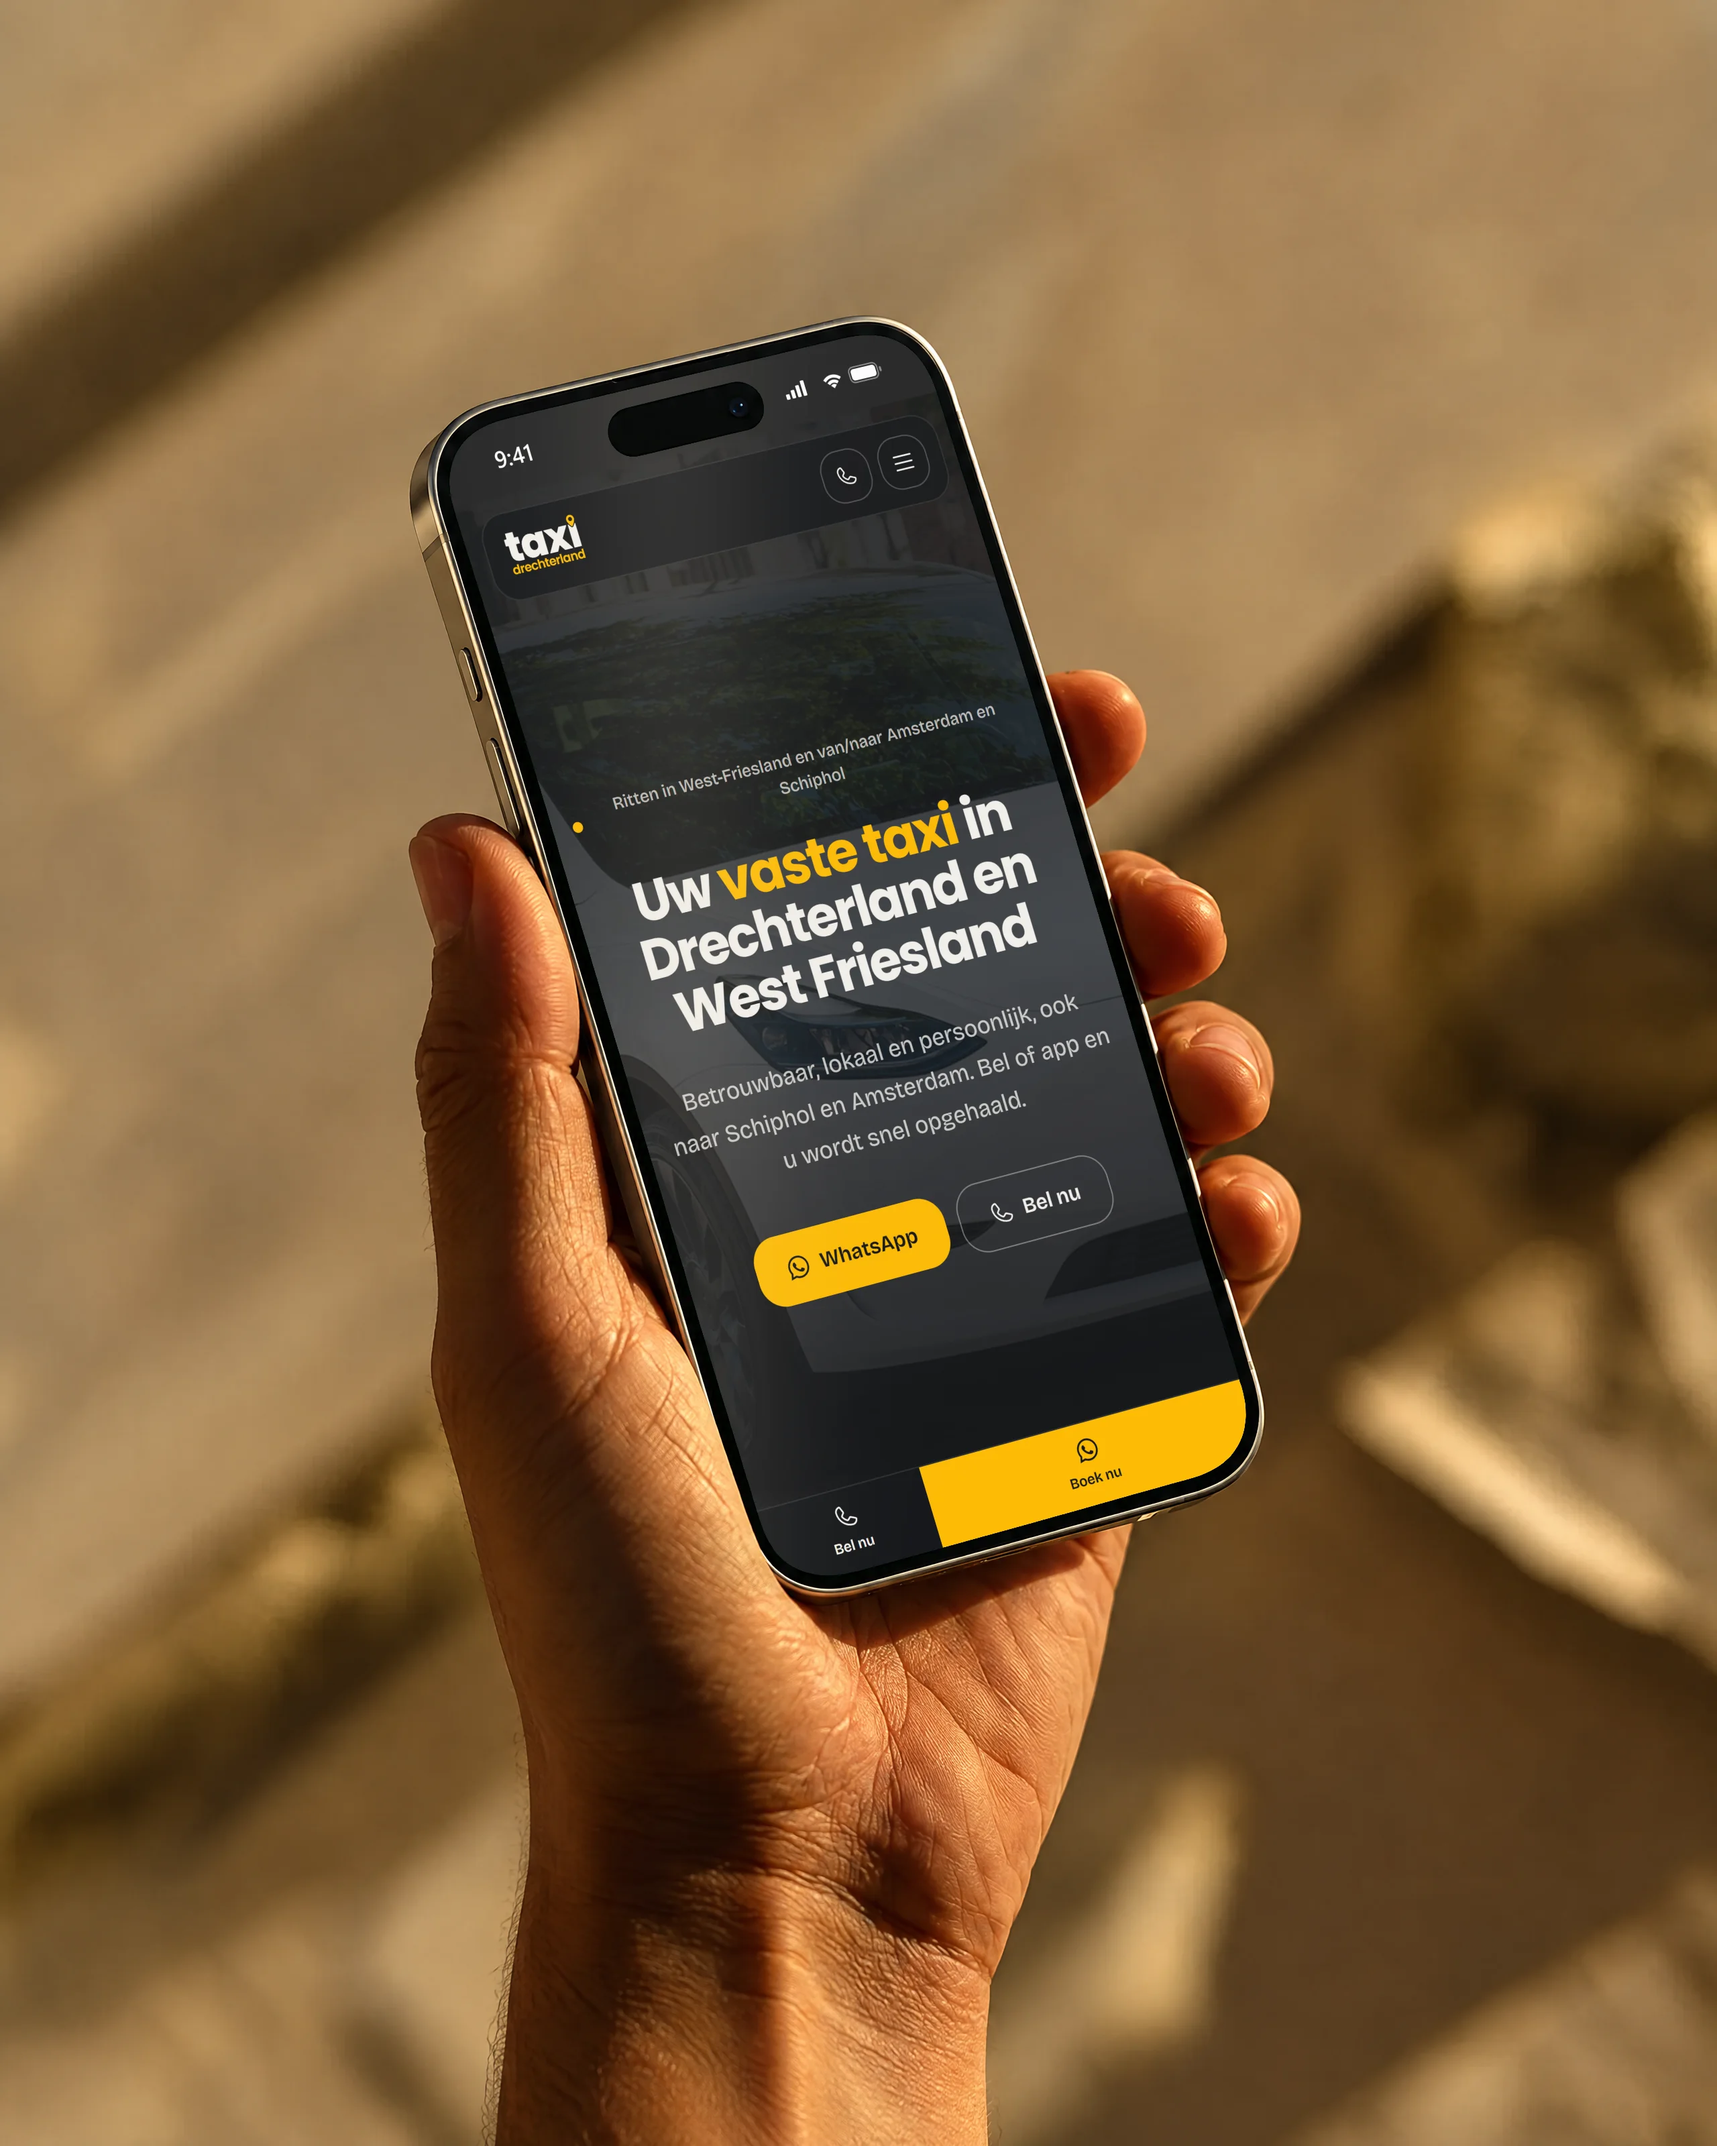
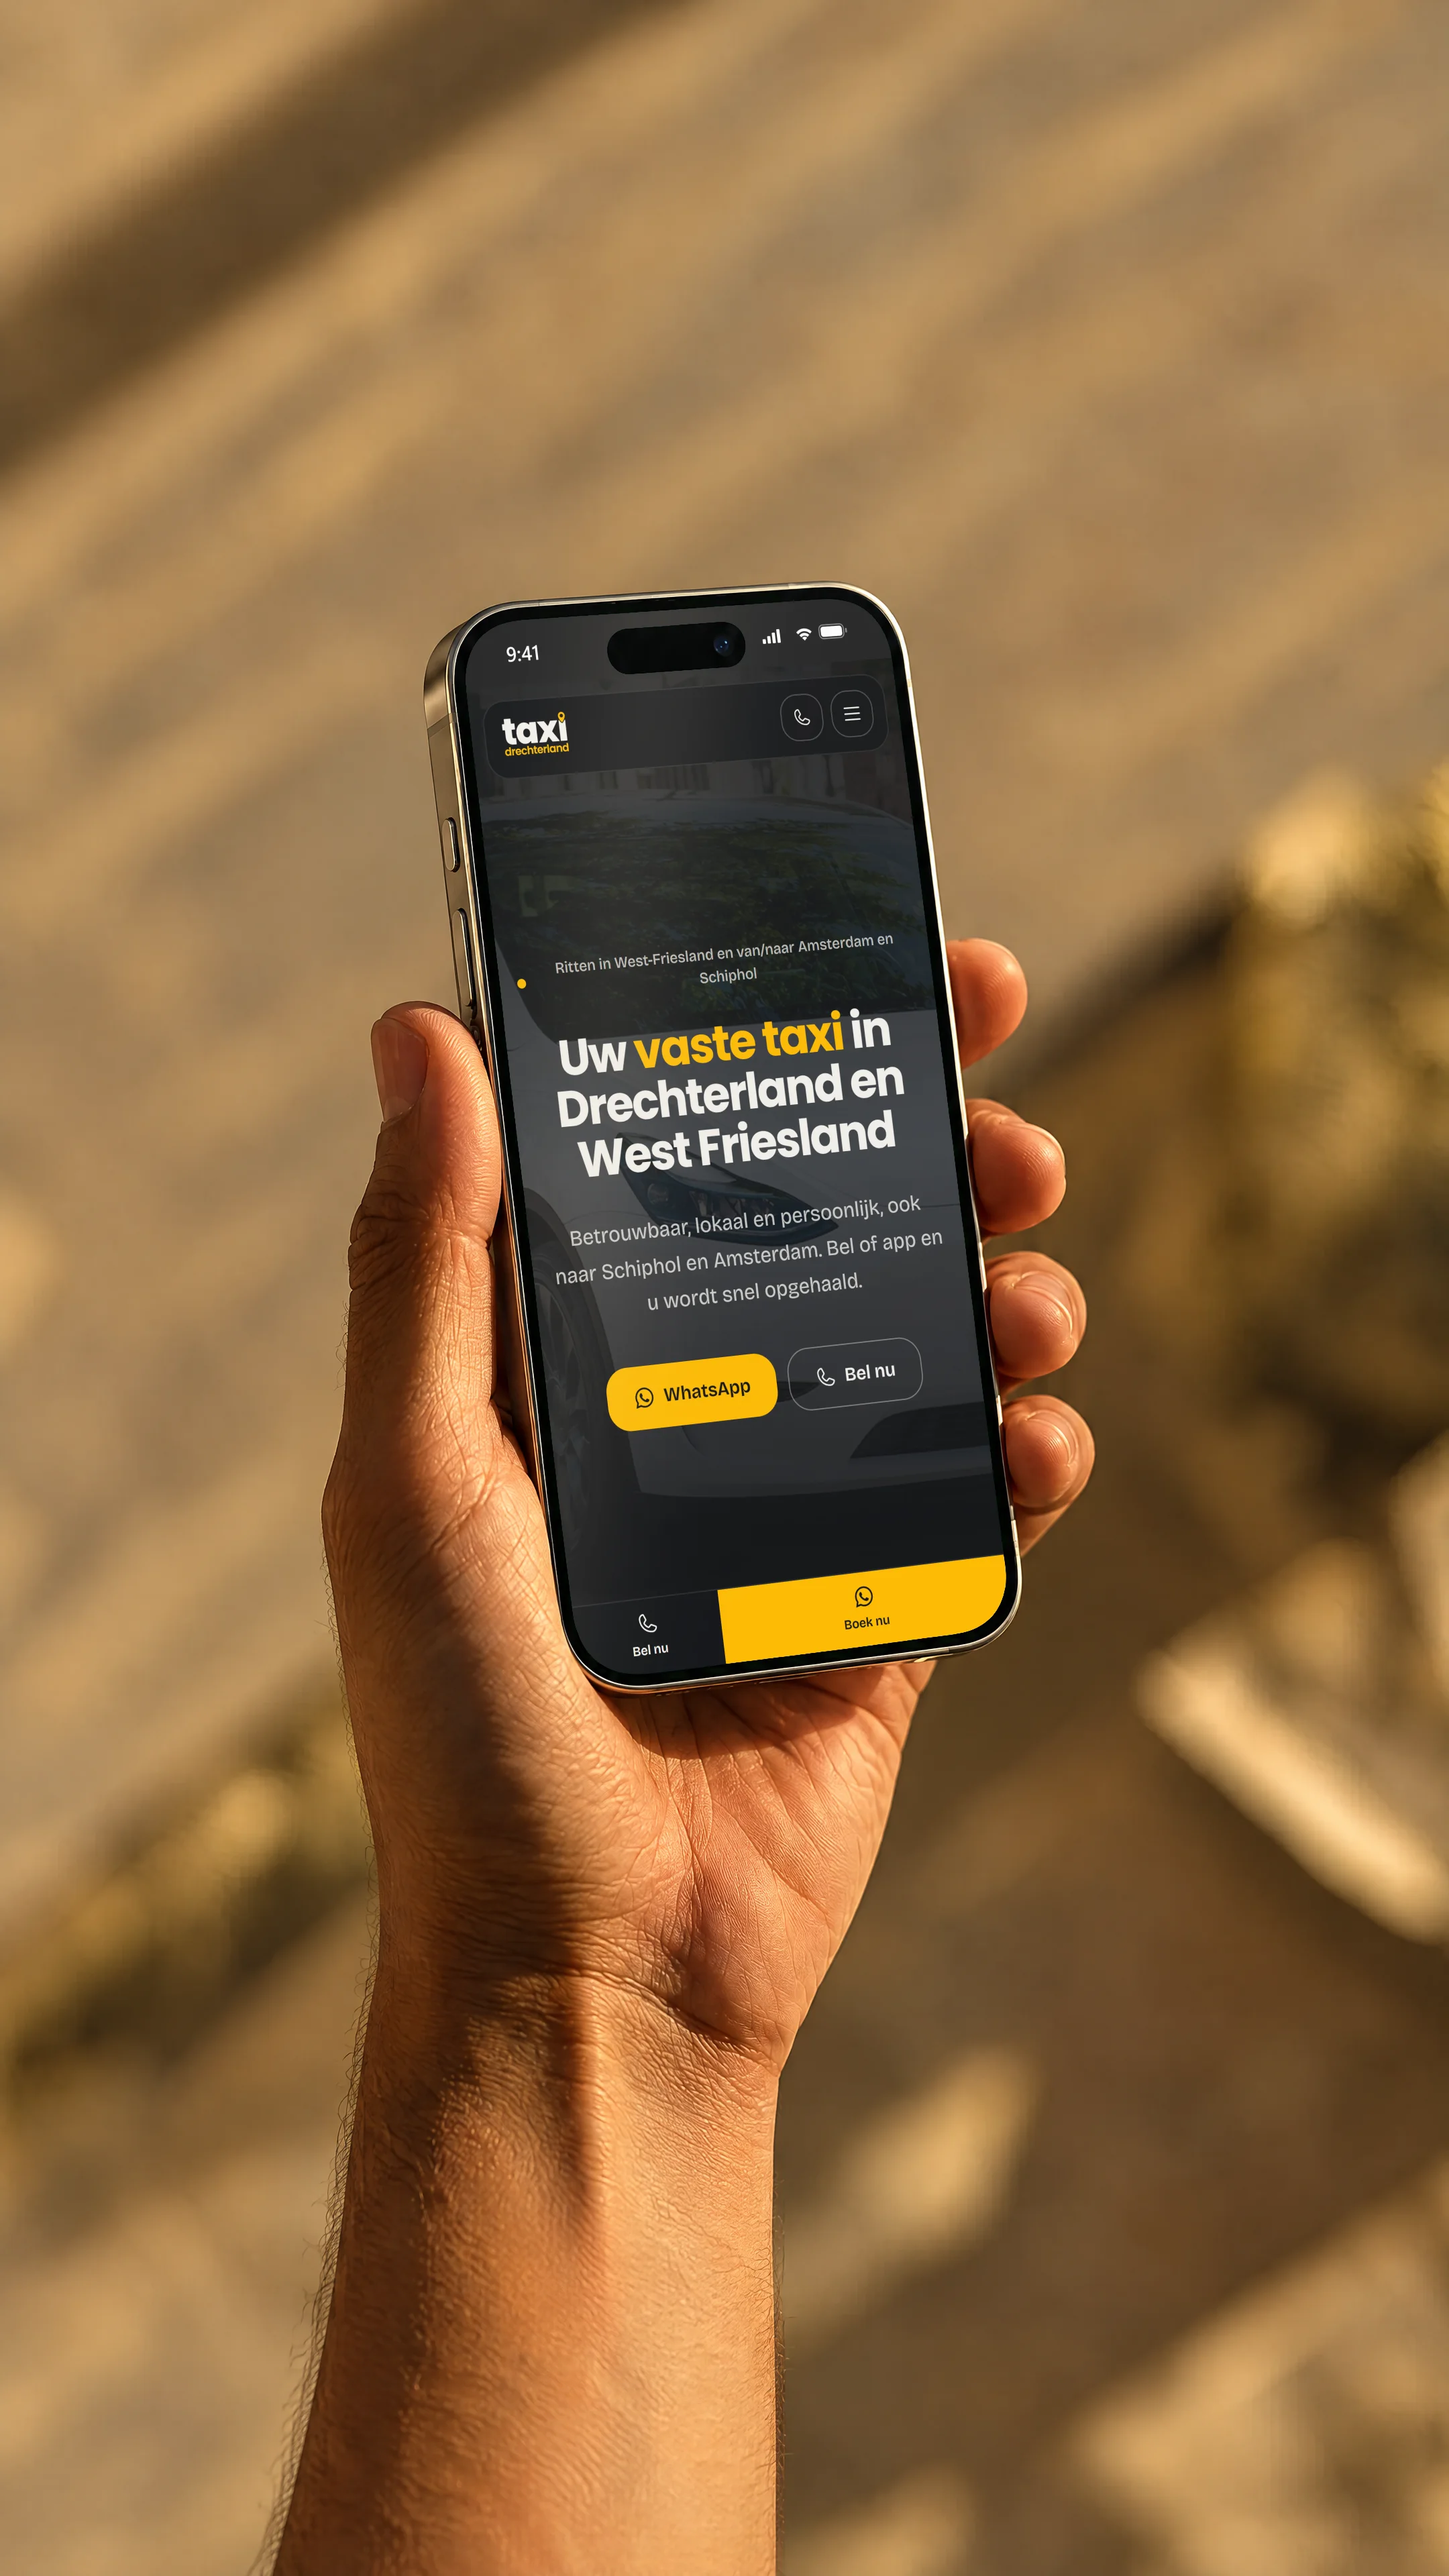
Case-pagina: staande telefoonfoto (9:16) die nooit inzoomt
Bij een smal, hoog venster zoomde de 4:5-foto ver in om 50vw x 110vh te vullen,
waardoor de telefoon buiten beeld viel. Nieuwe Higgsfield-foto in 9:16 (zelfde
stijl, site opnieuw met perspectief in het scherm gezet). De foto is nu altijd
precies kolombreed in zijn eigen verhouding; het kader wordt lager als de foto
niet hoog genoeg is, in plaats van dat de foto inzoomt.

diff --git a/src/components/CaseTelefoon.tsx b/src/components/CaseTelefoon.tsx
@@ -1,4 +1,4 @@
-import { useRef } from "react";
+import { useRef, type CSSProperties } from "react";
 import gsap from "gsap";
 import { ScrollTrigger } from "gsap/ScrollTrigger";
 import { useGSAP } from "@gsap/react";
@@ -6,31 +6,42 @@ import type { TelefoonFoto } from "@/data/caseMockups";
 
 if (typeof window !== "undefined") gsap.registerPlugin(useGSAP, ScrollTrigger);
 
-/** Hoeveel de foto meeschuift, in procenten van de (hogere) beeldlaag. */
-const VERSCHUIVING = 11.5;
+/** Totale verschuiving van de parallax, als deel van de kaderhoogte. */
+const BEWEGING = 0.16;
 
 /**
- * Linkerkolom van de case: de telefoonfoto, op desktop halve breedte en 110vh
- * (sticky), mobiel 4:5. Parallax met GSAP ScrollTrigger: de beeldlaag is hoger
- * dan het kader en schuift langzaam mee terwijl je langs de kolom scrolt. Het
- * beeld schuift alleen verticaal en wordt nooit geschaald of vervormd. Zonder
- * animatie (reduced motion) staat de foto gewoon stil in het midden.
+ * Linkerkolom van de case: de telefoonfoto. Mobiel volle breedte, op desktop
+ * halve breedte en 110vh hoog (sticky).
+ *
+ * De foto is altijd precies zo breed als de kolom, in zijn eigen verhouding:
+ * nooit ingezoomd, gerekt of geknepen, ook niet bij een smal en hoog venster.
+ * De foto is staand (9:16), zodat hij op halve breedte hoog genoeg is voor
+ * 110vh; is het venster daarvoor te smal, dan wordt het kader lager in plaats
+ * van dat de foto inzoomt. Binnen de speling staat de telefoon in het midden en
+ * schuift de foto met GSAP ScrollTrigger langzaam mee (parallax). Zonder
+ * animatie (reduced motion) staat hij stil op die middenpositie.
  */
 const CaseTelefoon = ({ foto, alt }: { foto: TelefoonFoto; alt: string }) => {
   const kolomRef = useRef<HTMLDivElement>(null);
-  const laagRef = useRef<HTMLDivElement>(null);
+  const kaderRef = useRef<HTMLDivElement>(null);
+  const fotoRef = useRef<HTMLImageElement>(null);
 
   useGSAP(
     () => {
       const mm = gsap.matchMedia();
       mm.add("(prefers-reduced-motion: no-preference)", () => {
+        const kader = kaderRef.current, beeld = fotoRef.current;
+        if (!kader || !beeld) return;
+        // Ruimte om omhoog en omlaag te schuiven zonder dat er een rand in beeld komt.
+        const omhoog = () => Math.min((kader.clientHeight * BEWEGING) / 2, beeld.offsetHeight + beeld.offsetTop - kader.clientHeight);
+        const omlaag = () => Math.min((kader.clientHeight * BEWEGING) / 2, -beeld.offsetTop);
         gsap.fromTo(
-          laagRef.current,
-          { yPercent: -VERSCHUIVING },
+          beeld,
+          { y: () => -Math.max(0, omhoog()) },
           {
-            yPercent: VERSCHUIVING,
+            y: () => Math.max(0, omlaag()),
             ease: "none",
-            scrollTrigger: { trigger: kolomRef.current, start: "top bottom", end: "bottom top", scrub: true },
+            scrollTrigger: { trigger: kolomRef.current, start: "top bottom", end: "bottom top", scrub: true, invalidateOnRefresh: true },
           },
         );
       });
@@ -39,24 +50,34 @@ const CaseTelefoon = ({ foto, alt }: { foto: TelefoonFoto; alt: string }) => {
     { scope: kolomRef },
   );
 
+  // Fotohoogte en telefoonmidden in cqw (procent van de kolombreedte).
+  const hoogte = (foto.hoogte / foto.breedte) * 100;
+  const stijl = { "--foto-h": `${hoogte}cqw`, "--telefoon-y": `${hoogte * foto.midden}cqw` } as CSSProperties;
+
   return (
-    <div ref={kolomRef} className="relative w-full lg:w-1/2 shrink-0">
-      <div className="relative aspect-[4/5] overflow-hidden lg:sticky lg:top-0 lg:aspect-auto lg:h-[110vh]">
-        {/* Beeldlaag 132% hoog: 16% speling boven en onder, genoeg voor ±11,5% van 132% (15,2%) */}
-        <div ref={laagRef} className="absolute inset-x-0 -top-[16%] h-[132%] will-change-transform">
-          <img
-            src={foto.src}
-            srcSet={foto.srcSet}
-            sizes="(min-width: 1024px) 50vw, 100vw"
-            width={foto.breedte}
-            height={foto.hoogte}
-            alt={alt}
-            loading="lazy"
-            decoding="async"
-            className="h-full w-full object-cover object-[50%_45%]"
-          />
-        </div>
+    <div ref={kolomRef} className="case-telefoon relative w-full lg:w-1/2 shrink-0" style={stijl}>
+      <div ref={kaderRef} className="case-telefoon-kader relative overflow-hidden lg:sticky lg:top-0">
+        <img
+          ref={fotoRef}
+          src={foto.src}
+          srcSet={foto.srcSet}
+          sizes="(min-width: 1024px) 50vw, 100vw"
+          width={foto.breedte}
+          height={foto.hoogte}
+          alt={alt}
+          loading="lazy"
+          decoding="async"
+          className="case-telefoon-foto absolute left-0 w-full h-auto max-w-none will-change-transform"
+        />
       </div>
+      <style>{`
+        .case-telefoon { container-type: inline-size; }
+        /* Mobiel 4:5; desktop 110vh, maar nooit hoger dan 88% van de foto (speling voor de parallax). */
+        .case-telefoon-kader { height: 125cqw; }
+        @media (min-width: 1024px) { .case-telefoon-kader { height: min(110vh, calc(var(--foto-h) * 0.88)); } }
+        /* Telefoon in het midden van het kader, terwijl de foto het kader altijd blijft bedekken. */
+        .case-telefoon-foto { top: clamp(calc(100% - var(--foto-h)), calc(50% - var(--telefoon-y)), 0px); }
+      `}</style>
     </div>
   );
 };

diff --git a/src/data/caseMockups.ts b/src/data/caseMockups.ts
@@ -2,7 +2,7 @@ import type { MockupScherm } from "@/components/CaseMockup";
 import taxiDrechterland from "@/assets/cases/taxi-drechterland-scherm.webp";
 import taxiDrechterlandSet from "@/assets/cases/taxi-drechterland-scherm.webp?w=720;1440;1800&format=webp&as=srcset";
 import taxiDrechterlandTelefoon from "@/assets/cases/taxi-drechterland-telefoon.webp";
-import taxiDrechterlandTelefoonSet from "@/assets/cases/taxi-drechterland-telefoon.webp?w=800;1200;1600;2200&format=webp&as=srcset";
+import taxiDrechterlandTelefoonSet from "@/assets/cases/taxi-drechterland-telefoon.webp?w=800;1200;1600;2160&format=webp&as=srcset";
 
 /**
  * Full-page screenshots per case voor de mockup in de hero (sleutel = slug
@@ -25,18 +25,22 @@ export interface TelefoonFoto {
   srcSet: string;
   breedte: number;
   hoogte: number;
+  /** Verticaal midden van de telefoon in de foto (0-1); daar centreert het kader op. */
+  midden: number;
 }
 
 /**
  * Foto van een iPhone in de hand met de mobiele site van de case op het scherm
  * (Higgsfield-foto met groen scherm; de screenshot is er met perspectief in gezet,
- * 402×820 @3x met een statusbalk erboven). Vervangt de oude case-afbeelding.
+ * 402×820 @3x met een statusbalk erboven). Staand 9:16, zodat de foto op halve
+ * breedte 110vh kan vullen zonder in te zoomen. Vervangt de oude case-afbeelding.
  */
 export const caseTelefoons: Record<string, TelefoonFoto> = {
   "taxi-drechterland": {
     src: taxiDrechterlandTelefoon,
     srcSet: taxiDrechterlandTelefoonSet,
-    breedte: 2560,
-    hoogte: 3200,
+    breedte: 2160,
+    hoogte: 3840,
+    midden: 0.44,
   },
 };
